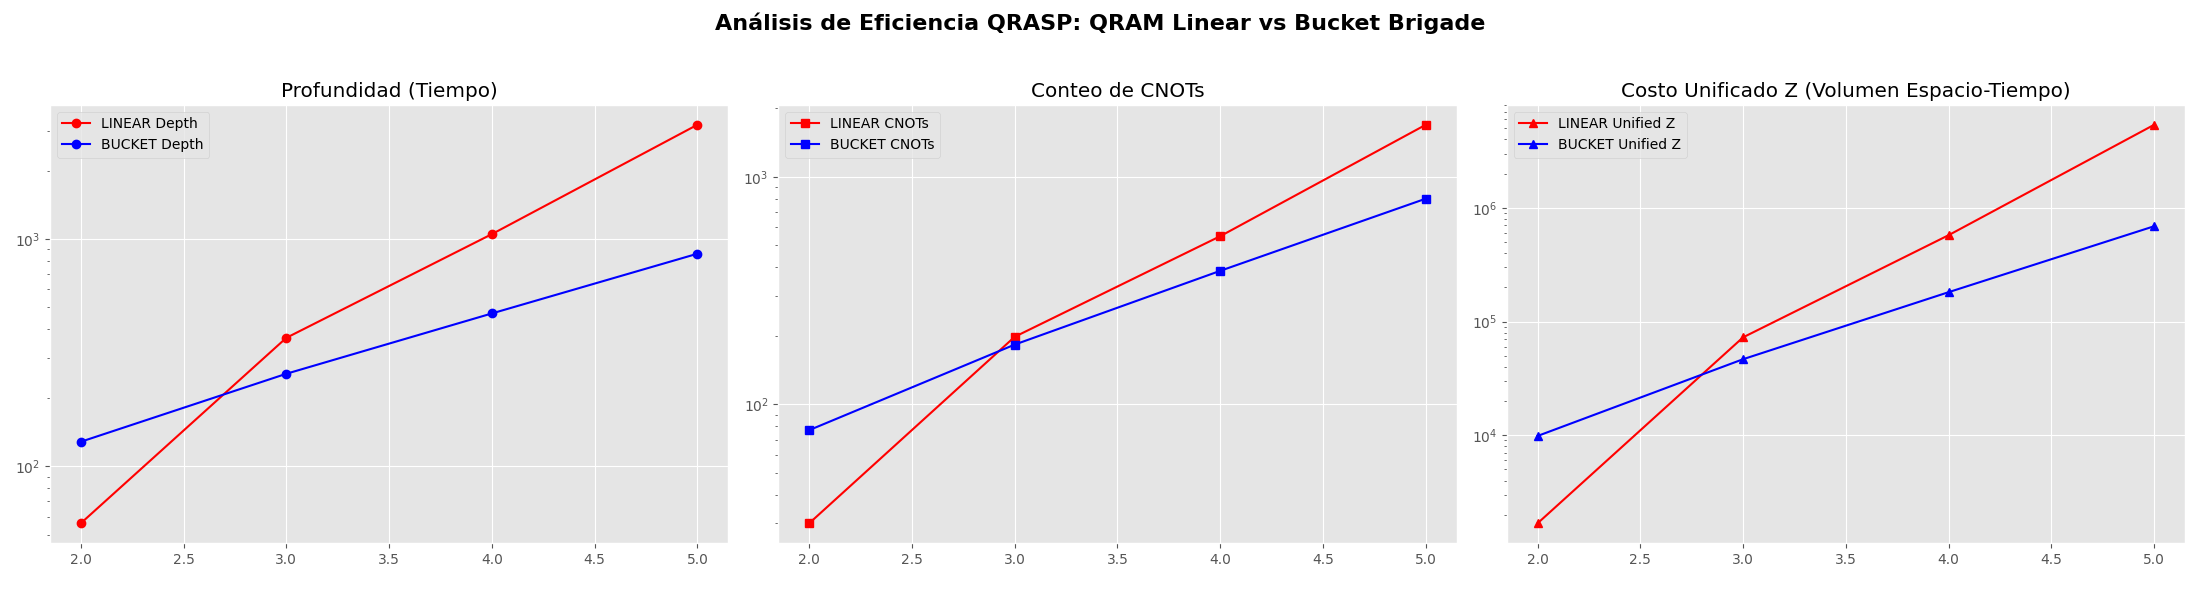
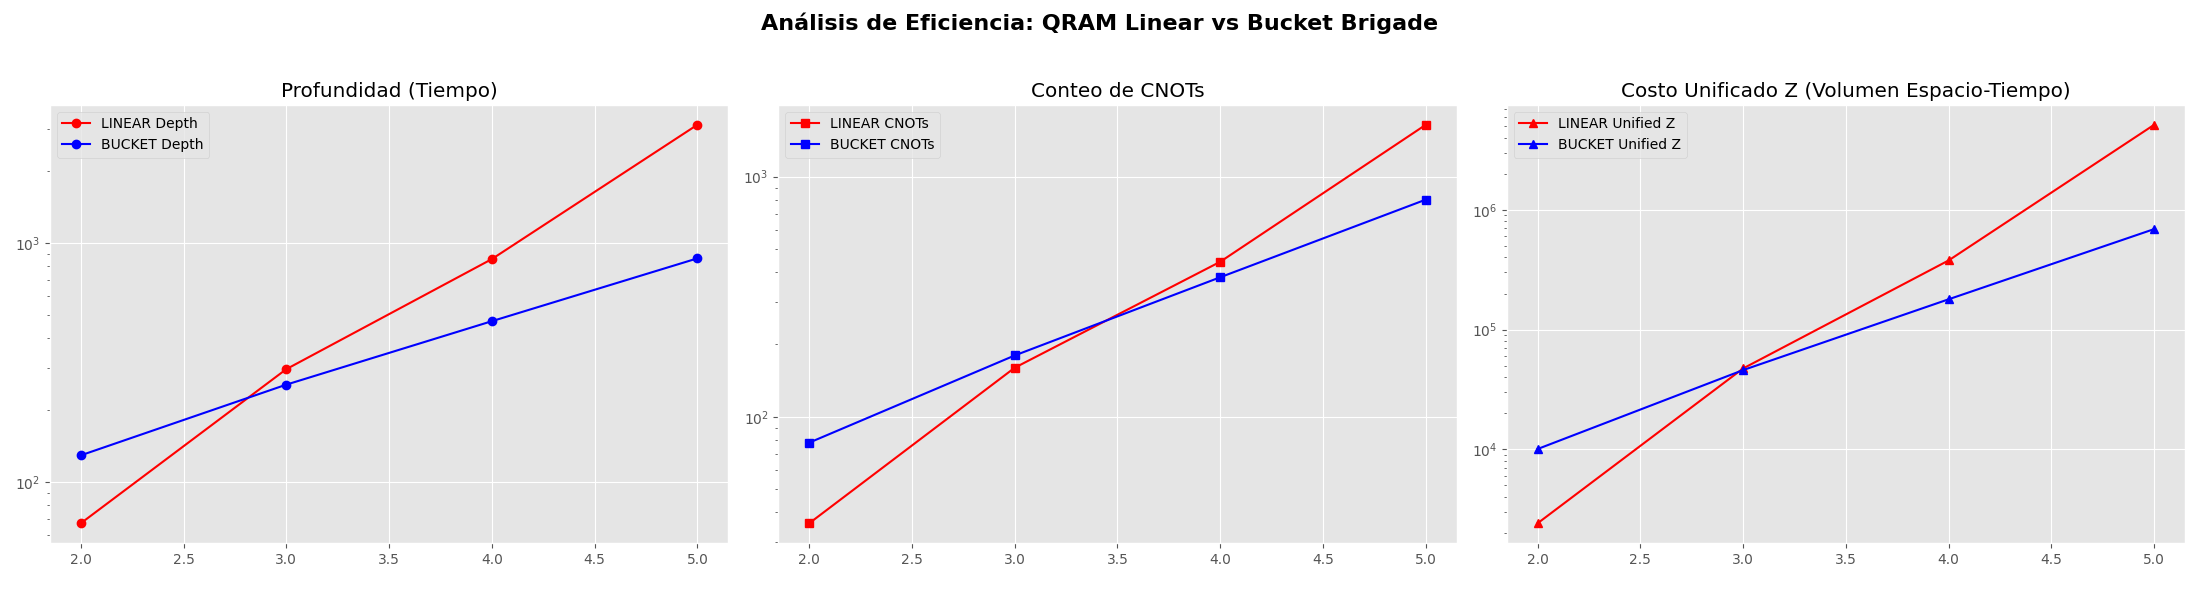
Ultima version

diff --git a/src/qram_prototype.py b/src/qram_prototype.py
@@ -4,21 +4,21 @@ import math
 import numpy as np
 from qiskit import QuantumCircuit, transpile, QuantumRegister, AncillaRegister
 from qiskit_aer import AerSimulator
+from qiskit_ibm_runtime.fake_provider import FakeHanoiV2
 
-# --- CLASE DE MEMORIA ---
+# --- 1. CLASE DE MEMORIA ---
 class VirtualQRAM:
     def __init__(self, n_addr, data_width=3):
         self.address_width = n_addr
         self.data_width = data_width
         self.num_addresses = 2**n_addr
-        # Memoria con datos aleatorios para testing
         self.memory = {i: format(np.random.randint(0, 2**data_width), f'0{data_width}b') 
                        for i in range(self.num_addresses)}
 
     def get_data(self, address):
         return self.memory.get(address, '0' * self.data_width)
 
-# --- ARQUITECTURA 1: LINEAR (QLOAD PLANA) ---
+# --- 2. ARQUITECTURAS (LINEAR Y BUCKET) ---
 def qload_linear(qc, addr_reg, data_reg, qram):
     for addr_idx, bitstring in qram.memory.items():
         binary_addr = format(addr_idx, f'0{qram.address_width}b')
@@ -31,12 +31,10 @@ def qload_linear(qc, addr_reg, data_reg, qram):
             if bit == '0': qc.x(addr_reg[i])
         qc.barrier()
 
-# --- ARQUITECTURA 2: BUCKET BRIGADE (QLOAD EN ÁRBOL) ---
 def build_routing_tree(n_addr, aux_reg):
     addr_q = QuantumRegister(n_addr, 'addr')
     tree_qc = QuantumCircuit(addr_q, aux_reg)
     tree_qc.x(aux_reg[0]) # Raíz activada
-    
     current_idx = 1
     current_layer_nodes = [aux_reg[0]]
     for depth in range(n_addr):
@@ -45,7 +43,6 @@ def build_routing_tree(n_addr, aux_reg):
         for parent in current_layer_nodes:
             left = aux_reg[current_idx]; right = aux_reg[current_idx+1]
             current_idx += 2
-            # Ruteo: Si Control=1 -> Right, Si Control=0 -> Left
             tree_qc.ccx(parent, ctrl, right)
             tree_qc.x(ctrl); tree_qc.ccx(parent, ctrl, left); tree_qc.x(ctrl)
             next_layer.extend([left, right])
@@ -55,27 +52,37 @@ def build_routing_tree(n_addr, aux_reg):
 def qload_bucket_brigade(qc, addr_reg, data_reg, aux_reg, qram):
     routing_circuit, leaves = build_routing_tree(qram.address_width, aux_reg)
     routing_instr = routing_circuit.to_instruction(label="RoutingTree")
-    
-    # 1. Forward Pass (Routing)
     qc.append(routing_instr, list(addr_reg) + list(aux_reg))
-    
-    # 2. Data Load (Sándwich)
     leaf_offset = 2**qram.address_width - 1
     for i in range(len(leaves)):
         data_val = qram.get_data(i)
         for bit_idx, bit in enumerate(data_val):
             if bit == '1':
                 qc.cx(aux_reg[leaf_offset + i], data_reg[bit_idx])
-    
-    # 3. Uncomputation (Reverse)
     qc.append(routing_instr.inverse(), list(addr_reg) + list(aux_reg))
 
-# --- MOTOR DE BENCHMARKING CON MÉTRICA Z ---
+# --- 3. MODELO DE RUIDO REAL ---
+def get_average_cx_error(backend):
+    """Extrae el error promedio de las CNOTs del hardware real de IBM."""
+    target = backend.target
+    errors = []
+    for gate_name, inst_map in target.items():
+        if gate_name == 'cx':
+            for qargs, inst_prop in inst_map.items():
+                if inst_prop is not None and inst_prop.error is not None:
+                    errors.append(inst_prop.error)
+    return np.mean(errors) if errors else 0.01
 
+# --- 4. MOTOR DE BENCHMARKING ACTUALIZADO ---
 def run_benchmarks(max_n=5):
+    # Inicializamos el hardware de referencia
+    backend_real = FakeHanoiV2()
+    avg_error = get_average_cx_error(backend_real)
+    print(f"Backend: {backend_real.name} | Error Promedio CNOT: {avg_error:.4f}")
+    
     results = []
-    print(f"{'n':<4} | {'Modo':<10} | {'CNOTs':<8} | {'Depth':<8} | {'Costo Z':<12}")
-    print("-" * 55)
+    print(f"{'n':<4} | {'Modo':<10} | {'CNOTs':<8} | {'Depth':<8} | {'P(Success)':<10}")
+    print("-" * 60)
 
     for n in range(2, max_n + 1):
         qram = VirtualQRAM(n_addr=n)
@@ -92,46 +99,52 @@ def run_benchmarks(max_n=5):
                 qc = QuantumCircuit(addr_reg, data_reg, aux_reg)
                 qload_bucket_brigade(qc, addr_reg, data_reg, aux_reg, qram)
             
-            # Transpilación para obtener métricas reales
             tr_qc = transpile(qc, basis_gates=['u', 'cx'], optimization_level=1)
             
             depth = tr_qc.depth()
             cnots = tr_qc.count_ops().get('cx', 0)
-            z_cost = depth * cnots  # <--- CÁLCULO DE MÉTRICA Z
+            z_cost = depth * cnots
             
-            metrics = {
-                'n': n,
-                'mode': mode,
-                'cnots': cnots,
-                'depth': depth,
-                'z_cost': z_cost,
-                'qubits': tr_qc.num_qubits
-            }
-            results.append(metrics)
-            print(f"{n:<4} | {mode:<10} | {cnots:<8} | {depth:<8} | {z_cost:<12.1e}")
+            # Cálculo de Fidelidad Proyectada: P = (1 - error)^CNOTs
+            p_success = (1 - avg_error)**cnots
+            
+            results.append({
+                'n': n, 'mode': mode, 'cnots': cnots, 'depth': depth,
+                'z_cost': z_cost, 'p_success': p_success, 'qubits': tr_qc.num_qubits
+            })
+            print(f"{n:<4} | {mode:<10} | {cnots:<8} | {depth:<8} | {p_success:<10.4f}")
             
     return pd.DataFrame(results)
 
+# --- 5. VISUALIZACIÓN COMPLETA (4 PANELES) ---
 def plot_comprehensive_analysis(df):
     plt.style.use('ggplot')
-    fig, (ax1, ax2, ax3) = plt.subplots(1, 3, figsize=(22, 6))
+    fig, ((ax1, ax2), (ax3, ax4)) = plt.subplots(2, 2, figsize=(16, 12))
 
     for mode, color in zip(['LINEAR', 'BUCKET'], ['red', 'blue']):
         subset = df[df['mode'] == mode]
-        ax1.plot(subset['n'], subset['depth'], marker='o', color=color, label=f'{mode} Depth')
-        ax2.plot(subset['n'], subset['cnots'], marker='s', color=color, label=f'{mode} CNOTs')
-        ax3.plot(subset['n'], subset['z_cost'], marker='^', color=color, label=f'{mode} Unified Z')
+        ax1.plot(subset['n'], subset['depth'], marker='o', color=color, label=f'{mode}')
+        ax2.plot(subset['n'], subset['cnots'], marker='s', color=color, label=f'{mode}')
+        ax3.plot(subset['n'], subset['z_cost'], marker='^', color=color, label=f'{mode}')
+        ax4.plot(subset['n'], subset['p_success'], marker='x', color=color, linestyle='--', label=f'{mode}')
 
-    ax1.set_title('Profundidad (Tiempo)'); ax1.set_yscale('log'); ax1.legend()
-    ax2.set_title('Conteo de CNOTs'); ax2.set_yscale('log'); ax2.legend()
-    ax3.set_title('Costo Unificado Z (Volumen Espacio-Tiempo)'); ax3.set_yscale('log'); ax3.legend()
+    ax1.set_title('Métrica A: Profundidad (Tiempo)'); ax1.set_yscale('log'); ax1.legend()
+    ax2.set_title('Métrica B: Conteo de CNOTs'); ax2.set_yscale('log'); ax2.legend()
+    ax3.set_title('Métrica C: Costo Unificado Z'); ax3.set_yscale('log'); ax3.legend()
     
-    plt.suptitle('Análisis de Eficiencia QRASP: QRAM Linear vs Bucket Brigade', fontsize=16, fontweight='bold')
+    # Gráfico de Ruido / Fidelidad
+    ax4.set_title('Métrica D: Fidelidad Proyectada (Éxito)', fontweight='bold', color='darkred')
+    ax4.set_ylabel('Probabilidad de Éxito')
+    ax4.set_xlabel('Número de Qubits de Dirección (n)')
+    ax4.set_ylim(-0.05, 1.05)
+    ax4.legend()
+
+    plt.suptitle('Análisis de Estrés NISQ: QRAM Linear vs Bucket Brigade (QRASP)', fontsize=18, fontweight='bold')
     plt.tight_layout(rect=[0, 0.03, 1, 0.95])
-    plt.savefig('qram_analysis_with_z.png')
+    plt.savefig('qram_noise_wall_analysis.png', dpi=300)
     plt.show()
 
 if __name__ == "__main__":
     df_results = run_benchmarks(max_n=5)
     plot_comprehensive_analysis(df_results)
-    df_results.to_csv('benchmarking_qram_etapa2.csv', index=False)
+    df_results.to_csv('benchmarking_qram_ruido.csv', index=False)

diff --git a/src/qram_test.py b/src/qram_test.py
@@ -1,0 +1,114 @@
+import math
+from qiskit import QuantumCircuit, transpile
+from qiskit_aer import AerSimulator
+
+# --- PASO A: MEMORIA CLÁSICA (VIRTUAL QRAM) ---
+
+class VirtualQRAM:
+    def __init__(self, data_dict):
+        """
+        data_dict: {int: str} ej. {0: '101', 1: '011'}
+        Asegúrate de que todos los bitstrings tengan la misma longitud.
+        """
+        self.memory = data_dict
+        self.num_addresses = len(data_dict)
+        self.address_width = math.ceil(math.log2(self.num_addresses))
+        self.data_width = len(list(data_dict.values())[0])
+
+    def get_data(self, address):
+        return self.memory.get(address, '0' * self.data_width)
+
+# --- PASO B & C: LA INSTRUCCIÓN QLOAD ---
+
+def qload(circuit, address_reg, data_reg, qram):
+    """
+    Implementación lógica de QLOAD mediante decodificación de direcciones.
+    Aplica una operación controlada: si address == i, entonces data ^= D_i
+    """
+    # Iteramos sobre cada dirección física de la memoria
+    for addr_idx, bitstring in qram.memory.items():
+        # 1. Convertimos addr_idx a binario para saber qué qubits de dirección activar
+        binary_addr = format(addr_idx, f'0{qram.address_width}b')
+        
+        # 2. "Pre-acondicionamiento": Aplicamos X donde la dirección tiene un '0'
+        # Esto hace que el estado buscado se convierta temporalmente en |11...1>
+        for i, bit in enumerate(binary_addr):
+            if bit == '0':
+                circuit.x(address_reg[i])
+        
+        # 3. Transferencia de Datos: Por cada '1' en el dato, aplicamos un Multi-Controlled X (MCX)
+        for j, data_bit in enumerate(bitstring):
+            if data_bit == '1':
+                # El registro de datos se activa solo si el registro de dirección coincide
+                circuit.mcx(address_reg, data_reg[j])
+        
+        # 4. "Post-acondicionamiento": Revertimos las X para mantener el estado original
+        for i, bit in enumerate(binary_addr):
+            if bit == '0':
+                circuit.x(address_reg[i])
+        
+        # Barrera lógica para visualización (opcional)
+        circuit.barrier()
+
+# --- EJECUCIÓN DEL PROTOTIPO ---
+
+if __name__ == "__main__":
+    # 1. Definir Memoria (4 datos de 3 bits cada uno)
+    # Dirección 0 -> 101, 1 -> 011, 2 -> 110, 3 -> 001
+    mem_data = {0: '101', 1: '011', 2: '110', 3: '001'}
+    qram = VirtualQRAM(mem_data)
+    
+    # 2. Configurar Circuito
+    qc = QuantumCircuit(qram.address_width + qram.data_width)
+    addr_qubits = list(range(qram.address_width))
+    data_qubits = list(range(qram.address_width, qram.address_width + qram.data_width))
+    
+    # 3. Preparar Dirección en Superposición Total (Hadamard)
+    # Buscamos leer todas las direcciones al mismo tiempo
+    qc.h(addr_qubits)
+    qc.barrier()
+    
+    # 4. Llamar a QLOAD
+    print(f"Ejecutando QLOAD para {len(mem_data)} direcciones...")
+    qload(qc, addr_qubits, data_qubits, qram)
+    
+    # Imprimir el circuito antes de la medición
+    print("\n" + "="*60)
+    print("CIRCUITO CUÁNTICO (antes de medición)")
+    print("="*60)
+    print(qc.draw())
+    
+    # Guardar el circuito como PNG
+    print("\nGuardando circuito como 'qram_circuit.png'...")
+    qc.draw('mpl', filename='qram_circuit.png')
+    print("Circuito guardado exitosamente.")
+    
+    # 5. Medición y Análisis
+    qc.measure_all()
+    
+    # Simulación
+    sim = AerSimulator()
+    # Transpilamos a puertas base para medir el costo real
+    tr_qc = transpile(qc, basis_gates=['u', 'cx'], optimization_level=1)
+    
+    # Imprimir el circuito transpilado
+    print("\n" + "="*60)
+    print("CIRCUITO TRANSPILADO (puertas base: u, cx)")
+    print("="*60)
+    print(tr_qc.draw())
+    
+    counts = sim.run(tr_qc, shots=2048).result().get_counts()
+    
+    print("\n" + "="*30)
+    print("RESULTADOS DEL PROTOTIPO QLOAD")
+    print("="*30)
+    print(f"Profundidad del Circuito: {tr_qc.depth()}")
+    print(f"Conteo de CNOTs: {tr_qc.count_ops().get('cx', 0)}")
+    print("-" * 30)
+    print("Estado Final (Dirección | Dato):")
+    # Los resultados de Qiskit se leen de derecha a izquierda
+    for state, freq in sorted(counts.items()):
+        # Separamos el bitstring en Parte de Dirección y Parte de Dato
+        data_part = state[:qram.data_width]
+        addr_part = state[qram.data_width:]
+        print(f"Dirección: |{addr_part}> -> Dato cargado: |{data_part}> (Frec: {freq})")

diff --git a/src/grover_demo.py b/src/grover_demo.py
@@ -11,13 +11,7 @@ from qiskit_aer import AerSimulator
 
 def grover_circuit(iterations=1):
     """
-    Crea un circuito cuántico que implementa el algoritmo de Grover.
-    
-    Args:
-        iterations (int): Número de iteraciones del algoritmo de Grover
-        
-    Returns:
-        QuantumCircuit: Circuito cuántico con el algoritmo de Grover
+
     """
     qc = QuantumCircuit(2)
     
